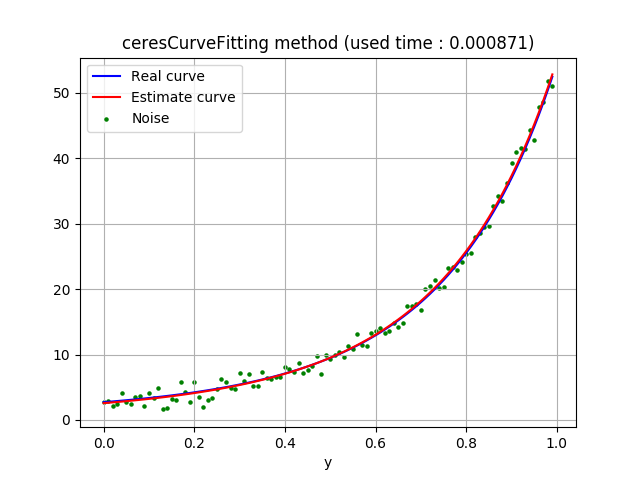
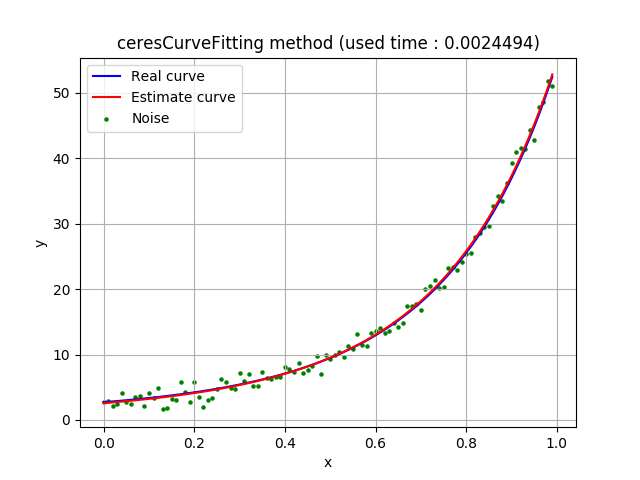
ch6

Changed region(s): [[0.1875, 0.0625, 0.8438, 0.125], [0.5, 0.9375, 0.5312, 0.9688]]

diff --git a/ch6/plotResult.py b/ch6/plotResult.py
@@ -43,9 +43,11 @@ for name in result:
         plt.plot(x_est, y_est, 'r', label='Estimate curve')
         plt.scatter(x_noise, y_noise, s=5, c='g', label='Noise')
         plt.xlabel('x')
-        plt.xlabel('y')
+        plt.ylabel('y')
         plt.title(name + ' method (used time : ' + useTime + ')')
         plt.legend()
         plt.grid()
         plt.savefig(output_path + name + '_plot.png')
         plt.clf()
+
+print('Done')

diff --git a/README.md b/README.md
@@ -18,7 +18,7 @@ code of 14 lectures on visual SLAM 2nd built on Windows 10 using WSL(Ubuntu 16.0
   * [trajectoryError](#trajectoryerror) 
   * [stereoVision](#stereovision)
   * [joinMap](#joinmap)
-  * [curveFitting](#curveFitting)
+  * [curveFitting](#curvefitting)
 * [IDE](#ide)
 * [References](#references) 
 
